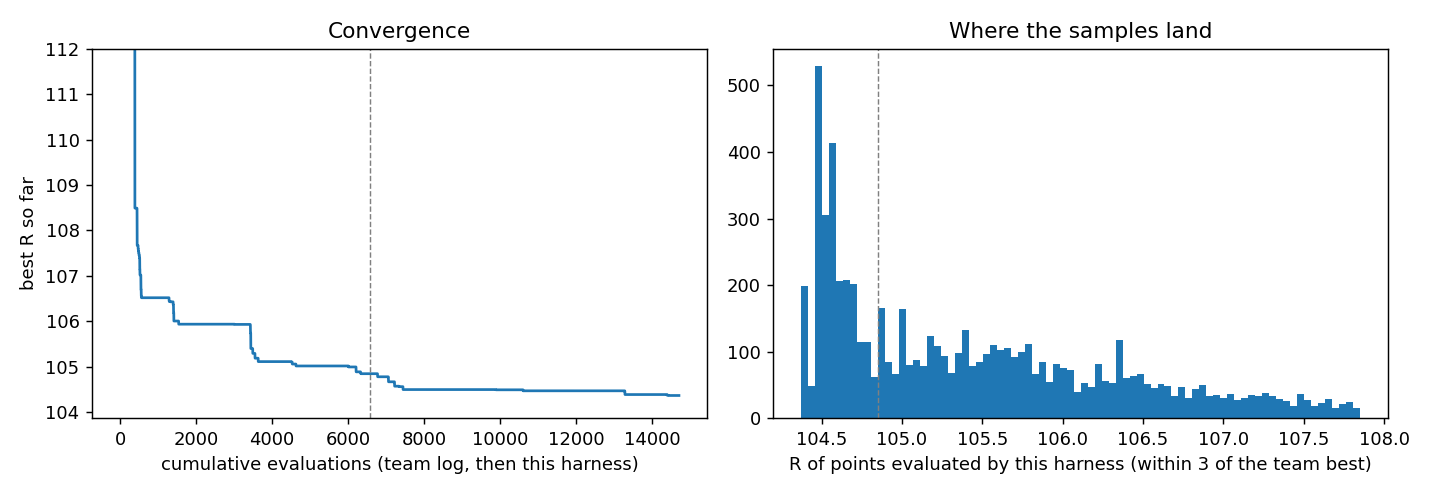
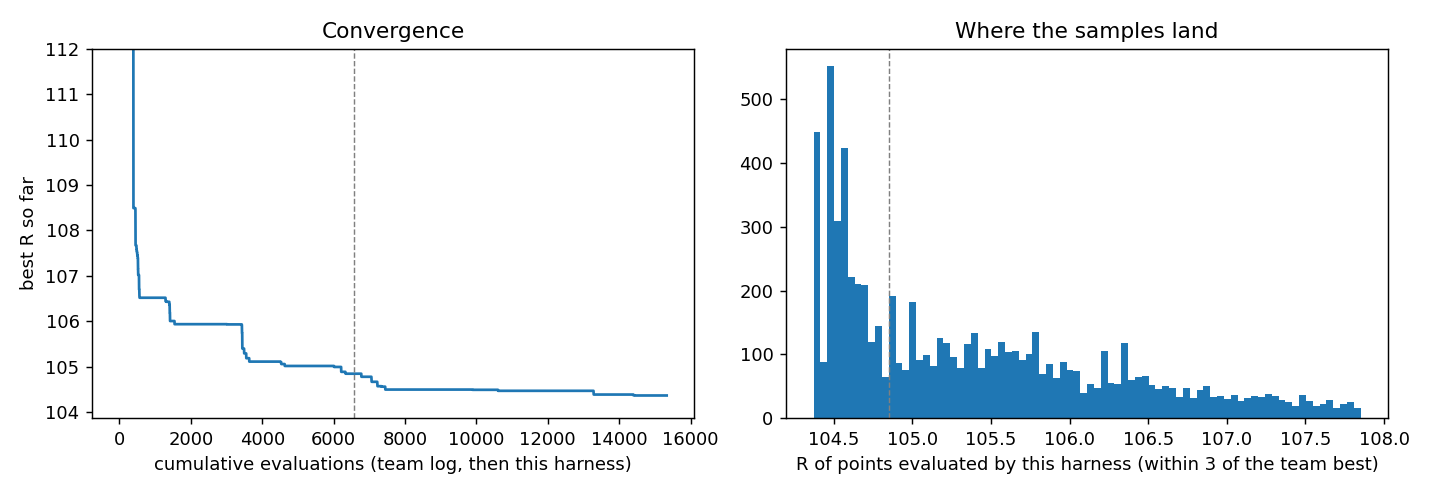
refactor(lowr_search): folder-relative paths and closed files in every script
Answers the non-blocking points of the PR #23 review:
- common.py gains HERE, read_json, read_jsonl and write_json; every script
  resolves its files against the study folder and closes them with `with`,
  so the scripts run from any working directory.
- pool.py: LOWR_CACHE_ONLY=1 replays from eval_log.jsonl and refuses to
  evaluate a new point.
- an_generations.py finds run 4's evaluation tags (it crashed before).
- best_point.json and convergence.png regenerated with the full log count.

With LOWR_CACHE_ONLY, E1, E2 and E6-E10 rewrote their result files byte for
byte and the analysis scripts printed the same output when run from the
repository root. provenance.json records the new script hashes.

diff --git a/analysis/lowr_search/an_mech.py b/analysis/lowr_search/an_mech.py
@@ -6,7 +6,6 @@
 It rebuilds each experiment's design with the same expressions as the exp_*.py scripts and looks the
 points up in eval_log.jsonl, so it can run while an experiment is still in progress.
 """
-import json
 import sys
 import warnings
 
@@ -14,16 +13,14 @@ import numpy as np
 
 from common import MINOR, NAMES, block, to_ratio
 from pool import LOG as LOG_FILE, key_of, normalize
+from common import HERE, read_json, read_jsonl
 
 warnings.filterwarnings("ignore", category=RuntimeWarning)      # all-NaN windows while a run is in progress
 np.set_printoptions(precision=3, suppress=True, linewidth=220)
-state = json.load(open("fms_state_run4.json", encoding="utf-8"))
+state = read_json("fms_state_run4.json")
 inc = np.array(state["inc"]); inc = inc / inc.sum(1, keepdims=True); inc_R = state["inc_R"]
 MN = [NAMES[k] for k in MINOR]                       # cost, carbon, peak, discomfort, resilience
-cache = {}
-for line in open(LOG_FILE, encoding="utf-8"):
-    rec = json.loads(line)
-    cache[key_of(np.asarray(rec["weights"], dtype=float))] = rec["R"]
+cache = {key_of(np.asarray(rec["weights"], dtype=float)): rec["R"] for rec in read_jsonl(LOG_FILE)}
 
 
 def delta(W):
@@ -203,7 +200,7 @@ def plots(res, loo, add, pair):
     fig.suptitle(T("r 的细扫：点是单次评估，线是 11 点滑动中位数；纵轴截断在 8（r 再大时 1 号楼升到 +37.7）",
                    "Fine scan of r: dots are single evaluations, lines are 11-point running medians; y axis cut at 8"),
                  x=0.01, y=0.985, ha="left", fontsize=10, color=INK2)
-    fig.tight_layout(rect=(0, 0, 1, 0.87)); fig.savefig("mech_rscan.png", dpi=140); plt.close(fig)
+    fig.tight_layout(rect=(0, 0, 1, 0.87)); fig.savefig(HERE / "mech_rscan.png", dpi=140); plt.close(fig)
 
     # --- dose response ---
     fig, ax = plt.subplots(3, 5, figsize=(14, 7.2), sharex=True, sharey=True)
@@ -234,7 +231,7 @@ def plots(res, loo, add, pair):
     fig.suptitle(T("次要权重的剂量曲线：菱形是该权重为 0 时的值，虚线是当前最优的取值；纵轴截断在 5",
                    "Dose curves of the minor weights: diamonds are the value at weight 0, dashed lines the incumbent's level; y axis cut at 5"),
                  x=0.01, y=0.99, ha="left", fontsize=10, color=INK2)
-    fig.tight_layout(rect=(0, 0, 1, 0.92)); fig.savefig("mech_dose.png", dpi=140); plt.close(fig)
+    fig.tight_layout(rect=(0, 0, 1, 0.92)); fig.savefig(HERE / "mech_dose.png", dpi=140); plt.close(fig)
 
     # --- pair grids ---
     cmap = LinearSegmentedColormap.from_list("seq_blue", ["#cde2fb", "#86b6ef", "#3987e5", "#1c5cab", "#0d366b"])
@@ -258,7 +255,7 @@ def plots(res, loo, add, pair):
     fig.suptitle(T("每栋楼最有价值的两个次要权重：格内数字是 R − 当前最优，颜色越深越差（3 以上同色）",
                    "The two most valuable minor weights per building: cells show R − incumbent, darker is worse (capped at 3)"),
                  x=0.01, y=0.99, ha="left", fontsize=10, color=INK2)
-    fig.tight_layout(rect=(0, 0, 1, 0.97)); fig.savefig("mech_pair.png", dpi=140); plt.close(fig)
+    fig.tight_layout(rect=(0, 0, 1, 0.97)); fig.savefig(HERE / "mech_pair.png", dpi=140); plt.close(fig)
     print("\nwrote mech_rscan.png, mech_dose.png, mech_pair.png")
 
 

diff --git a/analysis/lowr_search/exp_dose.py b/analysis/lowr_search/exp_dose.py
@@ -9,15 +9,15 @@ A minor weight is written m_k = w_k / (degradation + ramping); r and the other m
   pair   10 x 10 grid over the building's two most valuable minor weights (0 and 1/8 .. 8 times the
          incumbent values): do they substitute for each other or do they need each other?
 """
-import json
 import time
 
 import numpy as np
 
 from common import MINOR, NAMES, block, to_ratio
 from pool import SolverPool
+from common import read_json, write_json
 
-state = json.load(open("fms_state_run4.json", encoding="utf-8"))
+state = read_json("fms_state_run4.json")
 inc = np.array(state["inc"]); inc = inc / inc.sum(1, keepdims=True); inc_R = state["inc_R"]
 LOG = 10 ** np.linspace(-4, 0, 25)
 NEAR = np.array([0.7, 0.85, 0.95, 1.05, 1.2, 1.5])
@@ -39,7 +39,7 @@ y = pool.evaluate(np.array(X), tag="E8_loo") - inc_R
 print(f"[loo] {len(X)} points, {pool.n_solver_evals} new evaluations so far, {time.time() - t0:.0f}s")
 for (b, j, v), d in zip(meta, y):
     out["loo"].append({"building": b + 1, "minor": j, "m": v, "delta": float(d)})
-json.dump(out, open("E8_dose.json", "w"), indent=1)
+write_json("E8_dose.json", out, indent=1)
 
 X, meta = [], []
 for b in range(3):
@@ -52,7 +52,7 @@ y = pool.evaluate(np.array(X), tag="E8_add") - inc_R
 print(f"[add] {len(X)} points, {pool.n_solver_evals} new evaluations so far, {time.time() - t0:.0f}s")
 for (b, j, v), d in zip(meta, y):
     out["add"].append({"building": b + 1, "minor": j, "m": v, "delta": float(d)})
-json.dump(out, open("E8_dose.json", "w"), indent=1)
+write_json("E8_dose.json", out, indent=1)
 
 X, meta = [], []
 for b in range(3):
@@ -66,6 +66,6 @@ y = pool.evaluate(np.array(X), tag="E8_pair") - inc_R
 print(f"[pair] {len(X)} points, {pool.n_solver_evals} new evaluations in total, {time.time() - t0:.0f}s")
 for (b, j1, j2, f1, f2), d in zip(meta, y):
     out["pair"].append({"building": b + 1, "minor1": j1, "minor2": j2, "f1": f1, "f2": f2, "delta": float(d)})
-json.dump(out, open("E8_dose.json", "w"), indent=1)
+write_json("E8_dose.json", out, indent=1)
 best = min(min(e["delta"] for e in out[k]) for k in ("loo", "add", "pair"))
 print(f"lowest delta in E8: {best:+.4f}")

diff --git a/analysis/lowr_search/common.py b/analysis/lowr_search/common.py
@@ -3,8 +3,11 @@
 A block is written  w ∝ [m1, m2, m3, m4, r, 1-r, m7]  with r = F5/(F5+F6) and
 m_k = w_k/(F5+F6) for the five minor objectives (cost, carbon, peak, discomfort,
 resilience). The evaluator renormalises each building, so only ratios matter.
+Also the file helpers every script uses (paths relative to this folder, files closed by `with`).
 """
 import json
+from pathlib import Path
+
 import numpy as np
 
 NAMES = ["cost", "carbon", "peak", "discomfort", "degradation", "ramping", "resilience"]
@@ -30,4 +33,29 @@ def incumbent(log_W, log_R):
 
 
 def team_best():
-    return np.array(json.load(open("../replay/evidence/best_weights_phaseE5.json", encoding="utf-8"))["weights_by_building"])
+    return np.array(read_json(REPLAY / "best_weights_phaseE5.json")["weights_by_building"])
+
+
+# ---- files: every path is resolved against this folder, so scripts run from any working directory ----
+HERE = Path(__file__).resolve().parent
+REPLAY = HERE.parent / "replay" / "evidence"        # the team's 6,568-call log and its best weights
+
+
+def here(name) -> Path:
+    """A path inside this study folder (absolute paths pass through)."""
+    return HERE / name
+
+
+def read_json(name):
+    with open(here(name), encoding="utf-8") as fh:
+        return json.load(fh)
+
+
+def read_jsonl(name) -> list:
+    with open(here(name), encoding="utf-8") as fh:
+        return [json.loads(line) for line in fh]
+
+
+def write_json(name, obj, indent=None) -> None:
+    with open(here(name), "w", encoding="utf-8") as fh:
+        json.dump(obj, fh, indent=indent)

diff --git a/analysis/lowr_search/exp_additivity.py b/analysis/lowr_search/exp_additivity.py
@@ -1,12 +1,13 @@
 """E1: is R additive over buildings in the low region?  5 x 5 x 5 factorial of
 per-building weight vectors taken from the team's log (R < 108), chosen by
 farthest-point sampling so the variants differ. Doubles as a throughput test."""
-import itertools, json, sys, time
+import itertools, sys, time
 import numpy as np
 from pool import SolverPool, normalize
+from common import HERE, read_jsonl, write_json
 
 P = int(sys.argv[1]) if len(sys.argv) > 1 else 8
-rows = [json.loads(l) for l in open('../replay/evidence/eval_log.jsonl', encoding='utf-8')]
+rows = read_jsonl('../replay/evidence/eval_log.jsonl')
 W = normalize([r['weights'] for r in rows]).reshape(-1, 3, 7)
 R = np.array([r['R'] for r in rows])
 good = np.where(R < 108)[0]
@@ -34,4 +35,4 @@ print('main effects b1', a.round(3), 'b2', b_.round(3), 'b3', c.round(3))
 print('additive R2', 1 - res.var() / T.var(), 'residual SD', res.std().round(4), 'max |res|', np.abs(res).max().round(3))
 i, j, k = np.unravel_index(T.argmin(), T.shape); ia, ja, ka = a.argmin(), b_.argmin(), c.argmin()
 print('true argmin', (i, j, k), T.min(), '| additive argmin', (ia, ja, ka), T[ia, ja, ka])
-np.save('E1_factorial.npy', T); json.dump([v.tolist() for v in variants], open('E1_variants.json', 'w'))
+np.save(HERE / 'E1_factorial.npy', T); write_json('E1_variants.json', [v.tolist() for v in variants])

diff --git a/analysis/lowr_search/exp_coord.py b/analysis/lowr_search/exp_coord.py
@@ -10,7 +10,6 @@ Stops after --rounds rounds or when a round brings nothing.
     python exp_coord.py [rounds]
 """
 import itertools
-import json
 import sys
 import time
 
@@ -18,6 +17,7 @@ import numpy as np
 
 from common import MINOR, NAMES, block, to_ratio
 from pool import SolverPool, load_log
+from common import write_json
 
 MN = [NAMES[k] for k in MINOR]
 ROUNDS = int(sys.argv[1]) if len(sys.argv) > 1 else 2
@@ -85,8 +85,8 @@ for rnd in range(ROUNDS):
         cur, cur_R = Xc[k].reshape(3, 7), cur_R + float(yc[k])
     rec["R_after"] = cur_R; hist["rounds"].append(rec)
     print(f"  -> R = {cur_R:.9f}", flush=True)
-    json.dump(hist | {"best_R": cur_R, "best_W": cur.tolist()}, open("E12_coord.json", "w"), indent=1)
+    write_json("E12_coord.json", hist | {"best_R": cur_R, "best_W": cur.tolist()}, indent=1)
 
 np.set_printoptions(precision=6, suppress=True, linewidth=200)
 print(f"\nfinal R = {cur_R:.9f}; {pool.n_solver_evals} new evaluations in {time.time() - t0:.0f}s"); print(cur)
-json.dump(hist | {"best_R": cur_R, "best_W": cur.tolist()}, open("E12_coord.json", "w"), indent=1)
+write_json("E12_coord.json", hist | {"best_R": cur_R, "best_W": cur.tolist()}, indent=1)

diff --git a/analysis/lowr_search/exp_rscan.py b/analysis/lowr_search/exp_rscan.py
@@ -7,15 +7,15 @@ r runs from 0.15 to 0.50 in steps of 0.002. The plateau of the incumbent is far 
 (about 0.0002 in r), so neighbouring samples are different cells: the scan shows the trend and the
 scatter around it, not the exact piecewise-constant structure.
 """
-import json
 import time
 
 import numpy as np
 
 from common import block, to_ratio
 from pool import SolverPool
+from common import read_json, write_json
 
-state = json.load(open("fms_state_run4.json", encoding="utf-8"))
+state = read_json("fms_state_run4.json")
 inc = np.array(state["inc"]); inc = inc / inc.sum(1, keepdims=True); inc_R = state["inc_R"]
 GRID = np.round(np.arange(0.15, 0.5001, 0.002), 4)
 X, meta = [], []
@@ -36,6 +36,6 @@ for b in range(3):
         i = int(np.argmin(d))
         print(f"b{b + 1} {variant:5s}: min {d.min():+.4f} at r = {GRID[i]:.3f}; below incumbent: {int((d < -1e-9).sum())}; "
               f"median for r < 0.30: {np.median(d[GRID < 0.30]):+.3f}")
-json.dump(out, open("E9_rscan.json", "w"), indent=1)
+write_json("E9_rscan.json", out, indent=1)
 if y.min() < -1e-9:
     i = int(np.argmin(y)); print("NEW BEST", y[i] + inc_R, np.array(X[i]).reshape(3, 7))

diff --git a/analysis/lowr_search/exp_regimes.py b/analysis/lowr_search/exp_regimes.py
@@ -14,16 +14,16 @@ Question: how large are the interactions, what sign do they have, and is there a
 a building that smooths *less* gives a lower district R than the additive expectation suggests?
 """
 import itertools
-import json
 import time
 
 import numpy as np
 
 from common import block, to_ratio
 from pool import SolverPool
+from common import read_json, write_json
 
 LEVELS = ["inc", "pure", "ramp", "half", "idle"]
-state = json.load(open("fms_state_run4.json", encoding="utf-8"))
+state = read_json("fms_state_run4.json")
 inc = np.array(state["inc"]); inc = inc / inc.sum(1, keepdims=True); inc_R = state["inc_R"]
 Z = np.zeros(5)
 
@@ -84,4 +84,4 @@ for b in range(3):
     print(f"  b{b + 1}: from {v.min():.2f} (others {rows[lo][0]}/{rows[lo][1]}) to {v.max():.2f} (others {rows[hi][0]}/{rows[hi][1]});"
           f" others at incumbent {rows[0][2]:.2f}, others idle {rows[-1][2]:.2f}")
 
-json.dump({"levels": LEVELS, "incumbent_R": inc_R, "R": T.tolist()}, open("E7_regimes.json", "w"), indent=1)
+write_json("E7_regimes.json", {"levels": LEVELS, "incumbent_R": inc_R, "R": T.tolist()}, indent=1)

diff --git a/analysis/lowr_search/exp_recomb.py b/analysis/lowr_search/exp_recomb.py
@@ -1,12 +1,13 @@
 """E4: interaction lottery. Cross product of the K best distinct blocks per building
 (by delta in the search archive). Under exact additivity no combination could beat the
 incumbent; the residual of an additive fit measures the fine-scale interaction."""
-import itertools, json, sys, time
+import itertools, sys, time
 import numpy as np
 from pool import SolverPool
+from common import HERE, read_json
 
 K = int(sys.argv[1]) if len(sys.argv) > 1 else 7
-state = json.load(open('fms_state.json', encoding='utf-8'))
+state = read_json('fms_state.json')
 inc_R = state['inc_R']
 sets, deltas = [], []
 for b in range(3):
@@ -31,4 +32,4 @@ pred = inc_R + np.add.outer(np.add.outer(deltas[0], deltas[1]), deltas[2])     #
 err = T - pred
 print('error of the single-block additive prediction: mean', round(err.mean(), 4), 'SD', round(err.std(), 4), 'min', round(err.min(), 4))
 print('combinations below the incumbent:', int((T < inc_R - 1e-9).sum()), 'of', T.size)
-np.save('E4_recomb.npy', T)
+np.save(HERE / 'E4_recomb.npy', T)

diff --git a/analysis/lowr_search/exp_followup.py b/analysis/lowr_search/exp_followup.py
@@ -10,16 +10,16 @@ At this size a weight only breaks near-ties, so R moves in a few wide steps alon
   step 4  combine again and report
 """
 import itertools
-import json
 import time
 
 import numpy as np
 
 from common import MINOR, NAMES, block, to_ratio
 from pool import SolverPool
+from common import read_json, write_json
 
 MN = [NAMES[k] for k in MINOR]
-state = json.load(open("fms_state_run4.json", encoding="utf-8"))
+state = read_json("fms_state_run4.json")
 inc = np.array(state["inc"]); inc = inc / inc.sum(1, keepdims=True); inc_R = state["inc_R"]
 pool = SolverPool(n_workers=10)
 t0 = time.time()
@@ -93,4 +93,4 @@ if any(c is not None for c in cands):
 print(f"\nbest after follow-up: R = {inc_R + cur_d:.9f}  ({cur_d:+.4f} vs {inc_R:.4f});  {pool.n_solver_evals} new evaluations in {time.time() - t0:.0f}s")
 print(cur)
 out["best_R"] = inc_R + cur_d; out["best_W"] = cur.tolist()
-json.dump(out, open("E10_followup.json", "w"), indent=1)
+write_json("E10_followup.json", out, indent=1)

diff --git a/analysis/lowr_search/verify.py b/analysis/lowr_search/verify.py
@@ -4,11 +4,10 @@
   2. the same weights rounded to 8 / 6 / 5 / 4 / 3 decimals (what a copy-paste would send);
   3. random multiplicative perturbations of every positive weight at 1e-6 .. 1e-2.
 """
-import json
 
 import numpy as np
 
-from common import team_best
+from common import team_best, write_json
 from pool import SolverPool, load_log, normalize
 
 W, R, tags = load_log()
@@ -37,5 +36,5 @@ print("\nrelative noise on every weight -> share of perturbed points with the sa
 for s in (1e-6, 1e-5, 1e-4, 1e-3, 1e-2):
     d = y[scale == s] - best_R
     print(f"  10^N(0,{s:g}): same R {np.mean(np.abs(d) < 1e-9):.2f}   median {np.median(d):+.4f}   worst {d.max():+.4f}   best {d.min():+.4f}")
-json.dump({"R": best_R, "alone": alone, "batch": batch[1], "weights": best.reshape(3, 7).tolist()},
-          open("verification.json", "w"), indent=1)
+write_json("verification.json", {"R": best_R, "alone": alone, "batch": batch[1], "weights": best.reshape(3, 7).tolist()},
+           indent=1)

diff --git a/analysis/lowr_search/an_generations.py b/analysis/lowr_search/an_generations.py
@@ -1,11 +1,13 @@
 """Delta distribution of the candidates of the last generations in fms_progress.jsonl (by evaluation order)."""
-import json, numpy as np
+import numpy as np
 from pool import load_log
+from common import read_jsonl
 W, R, tags = load_log()
-prog = [json.loads(l) for l in open('fms_progress.jsonl', encoding='utf-8')]
+prog = read_jsonl('fms_progress.jsonl')
 tags = np.array(tags)
 for g in prog[-4:]:
-    idx = np.where(tags == f"fms_g{g['gen']}")[0]
+    prefix = g["run"] if (tags == f"{g['run']}_g{g['gen']}").any() else "fms"   # runs 1-3 were tagged "fms_g<gen>"
+    idx = np.where(tags == f"{prefix}_g{g['gen']}")[0]
     idx = idx[-g['new_evals']:] if g['new_evals'] < len(idx) else idx      # run 1 used the same tags earlier
     d = R[idx] - (g['R_best'] + g['gain'])
     print(f"gen {g['gen']:2d} n={len(idx)} same plateau {(np.abs(d) < 1e-9).mean():.2f}  d<0: {(d < -1e-9).sum()}  0<d<0.02: {((d > 1e-9) & (d < 0.02)).sum()}  "

diff --git a/analysis/lowr_search/exp_mech.py b/analysis/lowr_search/exp_mech.py
@@ -8,16 +8,16 @@
   stale    archived blocks whose *estimated* delta is negative but which were never measured against the
            current incumbent: one representative per distinct estimate.
 """
-import json
 import time
 
 import numpy as np
 
 from common import MINOR, NAMES
 from pool import SolverPool
+from common import read_json, write_json
 
 np.set_printoptions(precision=5, suppress=True, linewidth=200)
-state = json.load(open("fms_state_run4.json", encoding="utf-8"))
+state = read_json("fms_state_run4.json")
 inc = np.array(state["inc"]); inc = inc / inc.sum(1, keepdims=True); inc_R = state["inc_R"]
 E = np.eye(7)
 pool = SolverPool(n_workers=10)
@@ -109,4 +109,4 @@ if X:
         i = int(np.argmin(d)); print("  NEW BEST", y[i], np.array(X[i]).reshape(3, 7))
 
 print(f"\n{pool.n_solver_evals} new evaluations in {time.time() - t0:.0f}s")
-json.dump(out, open("E6_mech.json", "w"), indent=1)
+write_json("E6_mech.json", out, indent=1)
